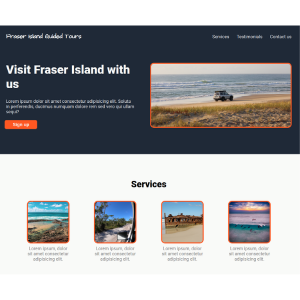
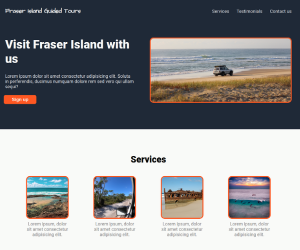
Added images and content to Work section.

diff --git a/index.html b/index.html
@@ -98,54 +98,54 @@
                 <h2>What i've been doing</h2>
                 <div class="work-cards">
                     <div class="work-card">
-                        <div class="work-card-img"></div>
+                        <div class="work-card-img rockpaperscissors"></div>
                         <div class="work-card-text">
-                            <div class="header">Landing page</div>
-                            <div class="work-card-main">A project from the course curriculum of The Odin Project.</div>
-                            <div class="work-card-minor">CSS - HTML</div>
+                            <div class="header">Rock Paper Scissors</div>
+                            <div class="work-card-main">A javascript project from the course curriculum of The Odin Project.</div>
+                            <div class="work-card-minor">Javascript - CSS - HTML</div>
                             <div class="footer">
-                                <a href="https://toddteis.github.io/odin-landing-page/">preview</a>
+                                <a href="https://toddteis.github.io/RockPaperScissors/" target="_blank">preview</a>
                                 &nbsp; | &nbsp;
-                                <a href="https://github.com/toddteis/odin-landing-page">code</a>
+                                <a href="https://github.com/toddteis/RockPaperScissors" target="_blank">code</a>
                             </div>
                         </div>
                     </div>
                     <div class="work-card">
-                        <div class="work-card-img"></div>
+                        <div class="work-card-img portfolioV1"></div>
                         <div class="work-card-text">
-                            <div class="header">Landing page</div>
-                            <div class="work-card-main">A project from the course curriculum of The Odin Project.</div>
+                            <div class="header">Portfolio v1</div>
+                            <div class="work-card-main">A personal portfolio webpage show casing skills and work.</div>
                             <div class="work-card-minor">CSS - HTML</div>
                             <div class="footer">
-                                <a href="https://toddteis.github.io/odin-landing-page/">preview</a>
+                                <a href="https://toddteis.github.io/Portfolio_v1/" target="_blank">preview</a>
                                 &nbsp; | &nbsp;
-                                <a href="https://github.com/toddteis/odin-landing-page">code</a>
+                                <a href="https://github.com/toddteis/Portfolio_v1" target="_blank">code</a>
                             </div>
                         </div>
                     </div>
                     <div class="work-card">
-                        <div class="work-card-img"></div>
+                        <div class="work-card-img odinlandingpage"></div>
                         <div class="work-card-text">
                             <div class="header">Landing page</div>
-                            <div class="work-card-main">A project from the course curriculum of The Odin Project.</div>
+                            <div class="work-card-main">A CSS project from the course curriculum of The Odin Project.</div>
                             <div class="work-card-minor">CSS - HTML</div>
                             <div class="footer">
-                                <a href="https://toddteis.github.io/odin-landing-page/">preview</a>
+                                <a href="https://toddteis.github.io/odin-landing-page/" target="_blank">preview</a>
                                 &nbsp; | &nbsp;
-                                <a href="https://github.com/toddteis/odin-landing-page">code</a>
+                                <a href="https://github.com/toddteis/odin-landing-page" target="_blank">code</a>
                             </div>
                         </div>
                     </div>
                     <div class="work-card">
-                        <div class="work-card-img"></div>
+                        <div class="work-card-img googlehomepage"></div>
                         <div class="work-card-text">
-                            <div class="header">Landing page</div>
-                            <div class="work-card-main">A project from the course curriculum of The Odin Project.</div>
+                            <div class="header">Google home page</div>
+                            <div class="work-card-main">A CSS project from the course curriculum of The Odin Project.</div>
                             <div class="work-card-minor">CSS - HTML</div>
                             <div class="footer">
-                                <a href="https://toddteis.github.io/odin-landing-page/">preview</a>
+                                <a href="https://toddteis.github.io/google-homepage/" target="_blank">preview</a>
                                 &nbsp; | &nbsp;
-                                <a href="https://github.com/toddteis/odin-landing-page">code</a>
+                                <a href="https://github.com/toddteis/google-homepage" target="_blank">code</a>
                             </div>
                         </div>
                     </div>

diff --git a/css/styles.css b/css/styles.css
@@ -199,8 +199,23 @@ section#intro .intro-text {
     height: 100%;
     width: 100%;
     background-color: burlywood;
-    background: url('/img/MyPost.png') no-repeat left center/cover;
     border-radius: 3px;
+}
+
+.odinlandingpage {
+    background: url('/img/odinlandingpage.png') no-repeat left center/cover;
+}
+
+.rockpaperscissors {
+    background: url('/img/rockpaperscissors.png') no-repeat center center/cover;
+}
+
+.portfolioV1 {
+    background: url('/img/portfolioV1.png') no-repeat center center/cover;
+}
+
+.googlehomepage {
+    background: url('/img/googlehomepage.png') no-repeat center center/cover;
 }
 
 .work-card-text {
@@ -354,6 +369,10 @@ footer ion-icon:hover {
         width: 250px;
         height: 200px;
         margin: 10px;
+    }
+
+    .work-card-text {
+        width: 100%;
     }
 
     .work-card-text .header {
